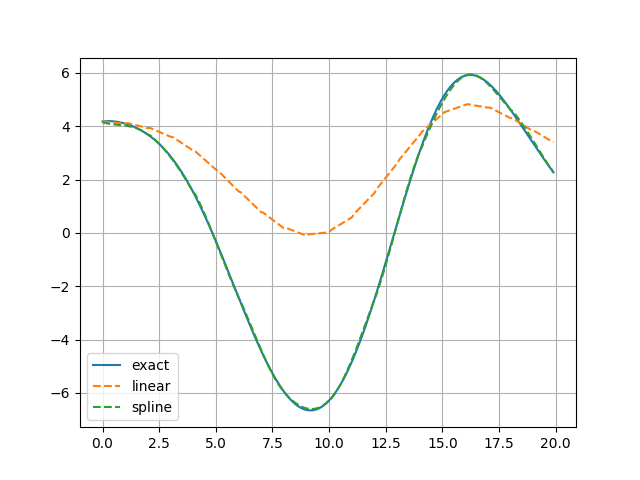
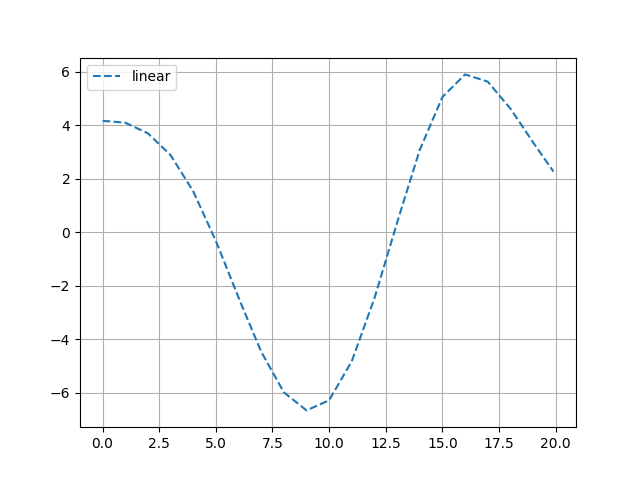
traced down a bug related to ignore field which was unintentionally added for zero coordinate after last changes to CFDwavemaker.cpp

diff --git a/src/lsgrid.cpp b/src/lsgrid.cpp
@@ -21,6 +21,7 @@
 
 // Allocation of memory to storage matrices
 void lsGrid::allocate() {
+	std::cout << "allocating, nx: " << nx << " ny: " << ny << " nl: " << nl << std::endl;
 	ETA0 = new double[nx * ny];
 	ETA1 = new double[nx * ny];
 
@@ -33,6 +34,25 @@ void lsGrid::allocate() {
 	UX1 = new double[nx * ny * nl];
 	UY1 = new double[nx * ny * nl];
 	UZ1 = new double[nx * ny * nl];
+
+	// set default values zero.
+	for (int i = 0; i < nx; i++) {
+		for (int j = 0; j < ny; j++) {
+				IGNORE[i * ny + j] = 0;
+				ETA0[i * ny + j] = 0;
+				ETA1[i * ny + j] = 0;
+				for (int m = 0; m < nl; m++){
+					UX0[i*ny*nl + nl*j + m] = 0.;
+					UY0[i*ny*nl + nl*j + m] = 0.;
+					UZ0[i*ny*nl + nl*j + m] = 0.;
+					UX1[i*ny*nl + nl*j + m] = 0.;
+					UY1[i*ny*nl + nl*j + m] = 0.;
+					UZ1[i*ny*nl + nl*j + m] = 0.;
+				}
+		}
+	}		
+
+	//omp_set_num_threads(1);
 }
 
 // A streching function for setting variable layer thickness
@@ -175,6 +195,9 @@ double lsGrid::trilinear_interpolation2(double* VAR0, double* VAR1, double tpt, 
 	double xd = std::modf(clip((xpt - domain[0]) / dx, 0., nx - 1.), &nxp_temp);
 	double yd = std::modf(clip((ypt - domain[2]) / dy, 0., ny - 1.), &nyp_temp);
 
+	//std::cout << "xmin:" << domain[0] << " ymin: " << domain[2] << " dx:" << dx << " dy:" << dy << std::endl;
+	//std::cout << "nx: " << nxp_temp << ", ny: " << nyp_temp << " xd: " << xd << " yd: " << yd << std::endl;
+
 	int nxp = int(nxp_temp);
 	int nyp = int(nyp_temp);
 
@@ -189,6 +212,7 @@ double lsGrid::trilinear_interpolation2(double* VAR0, double* VAR1, double tpt, 
 
 	double td = std::min(1., std::max(0., (tpt - t0) / dt));
 
+	//std::cout << "td:" << td << " C00:" << C00 << " C11:" << C11 << std::endl;
 	double C0 = C00 * (1. - xd) + C10 * xd;
 	double C1 = C01 * (1. - xd) + C11 * xd;
 	double D0 = D00 * (1. - xd) + D10 * xd;
@@ -306,7 +330,8 @@ double lsGrid::bilinear_interpolation2(double* VAR0, double* VAR1, double tpt, d
 	int nxp = int(nxp_temp);
 	int nyp = int(nyp_temp);
 
-	//std::cout << nxp << " " << nyp << "VAR0: " << VAR0[0] << std::endl;
+	//std::cout << nxp_temp << " " << nyp_temp << " " << ny <<" VAR0: " << std::endl;
+	//std::cout << "xd: " << xd << "  yd: " << yd << std::endl;
 
 	double C00 = VAR0[nxp * ny + nyp];
 	double C01 = VAR0[nxp * ny + clip(nyp + 1, 0, ny - 1)];
@@ -316,6 +341,7 @@ double lsGrid::bilinear_interpolation2(double* VAR0, double* VAR1, double tpt, d
 	double D01 = VAR1[nxp * ny + clip(nyp + 1, 0, ny - 1)];
 	double D10 = VAR1[clip(nxp + 1, 0, nx - 1) * ny + nyp];
 	double D11 = VAR1[clip(nxp + 1, 0, nx - 1) * ny + clip(nyp + 1, 0, ny - 1)];
+
 
 	//std::cout << C00 << " " << C01 << " " << C10 << " " << C11 << " " << D00 << " " << D01 << " " << D10 << " " << D11 << std::endl;
 	//double xd = nxp - floor(nxp);
@@ -602,6 +628,8 @@ void lsGrid::initialize_surface_elevation(Irregular& irregular, double t_target)
 	dx = (domain[1] - domain[0]) / std::max(1., double(nx - 1));
 	dy = (domain[3] - domain[2]) / std::max(1., double(ny - 1));
 
+	std::cout << "initdata: " << nx << " " << ny << " " << dx << " " << dy << std::endl; 
+
 	bxmin = domain[0];
 	bxmax = domain[1];
 	bymin = domain[2];
@@ -747,9 +775,12 @@ void lsGrid::update(Irregular& irregular, double t_target)
 					double xpt = domain[0] + dx * i;
 					//std::cout << "processornum: " << omp_get_thread_num() << std::endl;
 					double ypt = domain[2] + dy * j;
+					
 					if (!IGNORE[i * ny + j]) {
 						ETA0[i * ny + j] = ETA1[i * ny + j];
 						ETA1[i * ny + j] = irregular.eta1(t0 + dt, xpt, ypt) + irregular.eta2(t0 + dt, xpt, ypt) + swl;
+
+						//std::cout << "i: " << i << " j: " << j << " eta: " << temp << std::endl;
 
 						//double Ux1 = irregular.u1(t0 + dt, xpt, ypt, 0.0) + irregular.u2(t0 + dt, xpt, ypt, 0.0);
 						//double Uy1 = irregular.v1(t0 + dt, xpt, ypt, 0.0) + irregular.v2(t0 + dt, xpt, ypt, 0.0);

diff --git a/examples/python/case5_linear_vs_spline_lsgrid/case5.py b/examples/python/case5_linear_vs_spline_lsgrid/case5.py
@@ -80,26 +80,26 @@ def clean_up(mydll):
 # All done. lets test:
 
 time = np.arange(0,20,0.1)
-x = 0.3
-y = 0.5
+x = 0.0
+y = 0.0
 z = -7
 
-# Step 1 - Lest compute the exact second order solution
-shutil.copyfile("waveinput_exact.dat", 'waveinput.dat')
-init_dll(mydll1)
+# # Step 1 - Lest compute the exact second order solution
+# shutil.copyfile("waveinput_exact.dat", 'waveinput.dat')
+# init_dll(mydll1)
 
-wave_elev1 = []
-u1 = []
-v1 = []
-w1 = []
+# wave_elev1 = []
+# u1 = []
+# v1 = []
+# w1 = []
 
-for t in time:
-    #print(wave_SurfElev(mydll,t,-200,0))
-    wave_elev1.append(wave_SurfElev(mydll1,t,x,y))
-    u1.append(wave_VeloX(mydll1,t,x,y,z))
-    v1.append(wave_VeloY(mydll1,t,x,y,z))
-    w1.append(wave_VeloZ(mydll1,t,x,y,z))
-clean_up(mydll1)
+# for t in time:
+#     #print(wave_SurfElev(mydll,t,-200,0))
+#     wave_elev1.append(wave_SurfElev(mydll1,t,x,y))
+#     u1.append(wave_VeloX(mydll1,t,x,y,z))
+#     v1.append(wave_VeloY(mydll1,t,x,y,z))
+#     w1.append(wave_VeloZ(mydll1,t,x,y,z))
+# clean_up(mydll1)
 
 # Step 2 - now lest do the LSgrid with linear interpolation
 shutil.copyfile("waveinput_linear.dat", 'waveinput.dat')
@@ -118,40 +118,41 @@ for t in time:
     w2.append(wave_VeloZ(mydll2,t,x,y,z))
 clean_up(mydll2)
 
-# Step 3 - finally lets do the LSgrid with spline interpolation
-shutil.copyfile("waveinput_spline.dat", 'waveinput.dat')
-init_dll(mydll3)
+# # Step 3 - finally lets do the LSgrid with spline interpolation
+# shutil.copyfile("waveinput_spline.dat", 'waveinput.dat')
+# init_dll(mydll3)
 
-wave_elev3 = []
-u3 = []
-v3 = []
-w3 = []
+# wave_elev3 = []
+# u3 = []
+# v3 = []
+# w3 = []
 
-for t in time:
-    wave_update(mydll3, t)
-    data = wave_Kinematics(mydll3,t,x,y,z)
-    #print(wave_SurfElev(mydll,t,-200,0))
-    # wave_elev3.append(wave_SurfElev(mydll3,t,x,y))
-    # u3.append(wave_VeloX(mydll3,t,x,y,z))
-    # v3.append(wave_VeloY(mydll3,t,x,y,z))
-    # w3.append(wave_VeloZ(mydll3,t,x,y,z))
-    wave_elev3.append(data[0])
-    u3.append(data[1])
-    v3.append(data[2])
-    w3.append(data[3])
-clean_up(mydll3)
+# for t in time:
+#     wave_update(mydll3, t)
+#     data = wave_Kinematics(mydll3,t,x,y,z)
+#     #print(wave_SurfElev(mydll,t,-200,0))
+#     # wave_elev3.append(wave_SurfElev(mydll3,t,x,y))
+#     # u3.append(wave_VeloX(mydll3,t,x,y,z))
+#     # v3.append(wave_VeloY(mydll3,t,x,y,z))
+#     # w3.append(wave_VeloZ(mydll3,t,x,y,z))
+#     wave_elev3.append(data[0])
+#     u3.append(data[1])
+#     v3.append(data[2])
+#     w3.append(data[3])
+# clean_up(mydll3)
     
 
 
 
 
-plt.plot(time, wave_elev1, label="exact")
+#plt.plot(time, wave_elev1, label="exact")
 plt.plot(time, wave_elev2,"--", label="linear")
-plt.plot(time, wave_elev3,"--", label="spline")
+#plt.plot(time, wave_elev3,"--", label="spline")
 plt.legend()
 plt.grid(True)
 plt.savefig("./result_eta.png")
 plt.show()
+exit()
 plt.clf()
 plt.plot(time,u1, label='u exact')
 plt.plot(time,v1, label='v exact')

diff --git a/src/CFDwavemaker.cpp b/src/CFDwavemaker.cpp
@@ -51,7 +51,7 @@
 #include "VTKreader.h"
 #endif
 
-
+#define largeval 1.E12
 //#include <fftw3.h>
 
 
@@ -88,7 +88,7 @@ public:
 	double lsgrid_dt = 0.1;
 	double lsgrid_tan_a;
 	double lsgrid_tan_b;
-	double lsgrid_domain_ignore[4] = {};
+	double lsgrid_domain_ignore[4] = {largeval, -largeval, largeval, -largeval};
 	bool lsgrid_ignore_domain = false;
 	bool lsgrid_ignore_at_init = 0;
 	bool lsgrid_init_only = 0;
@@ -1302,7 +1302,7 @@ int process_inputdata(std::string res, Irregular& irreg, Stokes5& stokes, Wavema
 	if (inputdata.wavetype == 4) {
 		lsgrid.water_depth = inputdata.depth;
 		lsgrid.swl = inputdata.swl;
-		lsgrid.set_ignore();
+		//lsgrid.set_ignore();
 
 		if (lsgrid.ignore_at_init) {
 			lsgrid.initialize_surface_elevation_with_ignore(irreg, lsgrid.t0);
